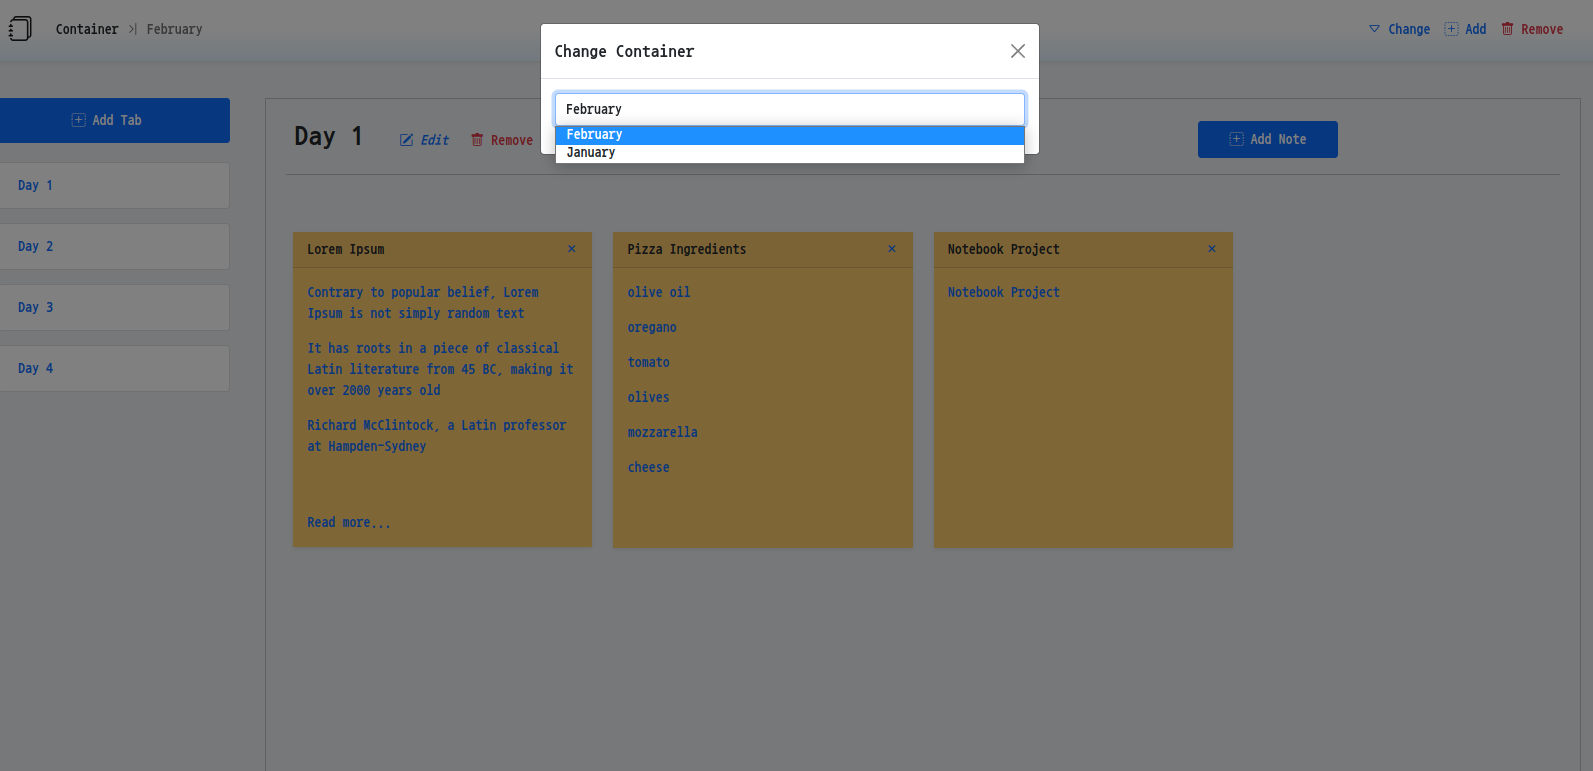
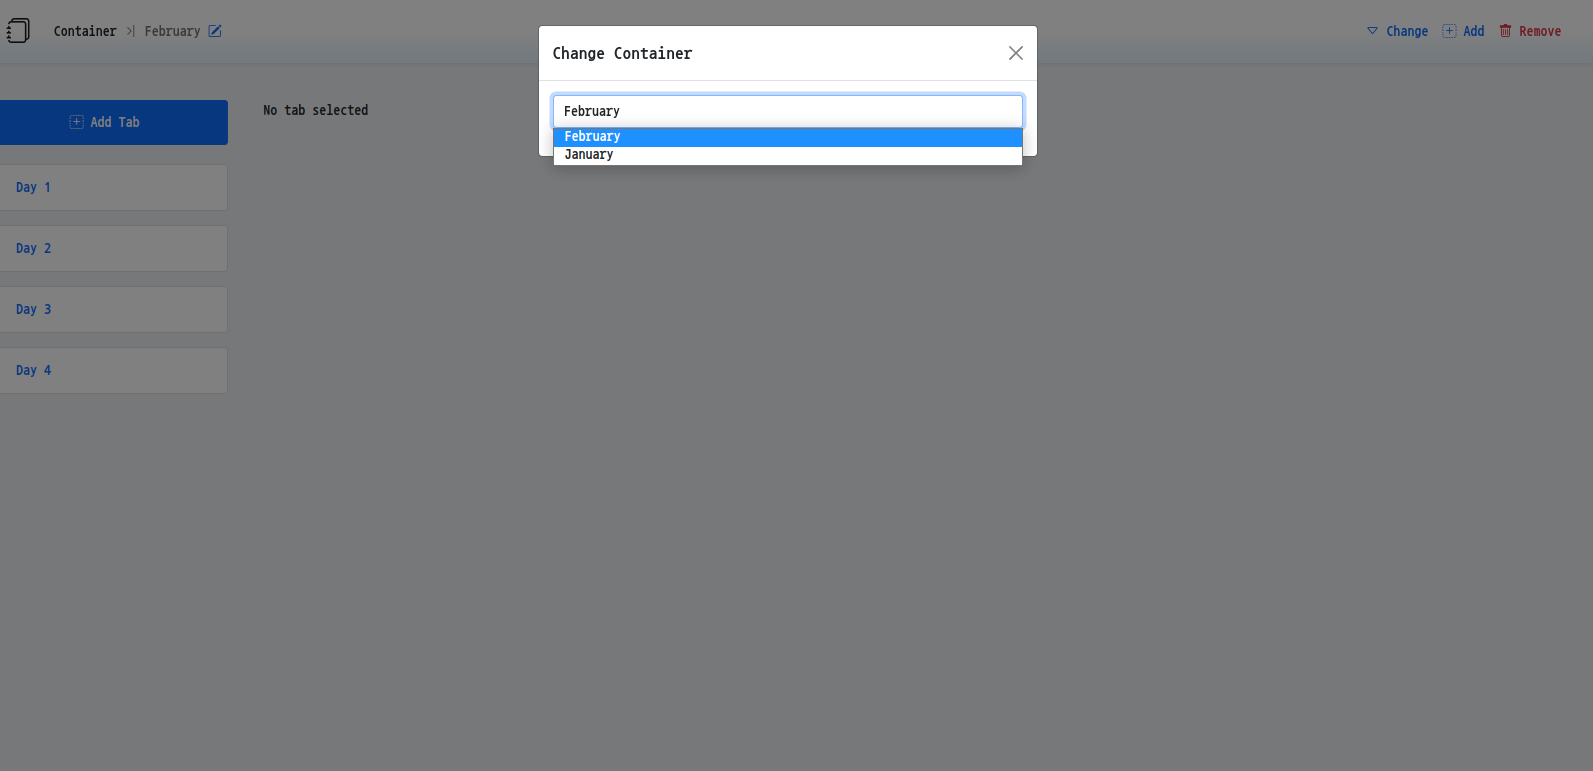
Improve user experience

diff --git a/frontend/src/App.vue b/frontend/src/App.vue
@@ -6,7 +6,7 @@
     <ContainerEditForm />
     <div class="row" style="margin-top: 100px !important;">
       <div class="col-2 app-tabs">
-        <Tabs v-show="containerExists" />
+        <Tabs />
       </div>
       <div class="col-10">
         <router-view />
@@ -51,7 +51,7 @@ export default {
         const currentTab = JSON.parse(localStorage.getItem('tab')) || null;
         const currentContainer = JSON.parse(localStorage.getItem('container'))
 
-        if(currentContainer.id === '') {
+        if(currentContainer && currentContainer.id == '') {
           document.querySelector('#tabs').style.display = 'none';
           document.querySelector('#container-edit-btn').style.display = 'none'
           document.querySelector('#container-remove-btn').style.display = 'none'
@@ -71,16 +71,6 @@ export default {
         //   // vm.$store.dispatch('loadTabs');
         // }, 1000)
     }, false);
-  },
-  methods: {
-    containerExists() {
-      const currentContainer = JSON.parse(localStorage.getItem('container'));
-      if(currentContainer.id === '') {
-        return false;
-      } else {
-        return true;
-      }
-    }
   }
 };
 </script>

diff --git a/frontend/src/store/modules/tab.js b/frontend/src/store/modules/tab.js
@@ -23,14 +23,16 @@ const actions = {
 	loadTabs: ({commit}) => {
 		return new Promise((resolve, reject) => {
 			const container = JSON.parse(localStorage.getItem("container"));
-			axios.get('http://localhost:8888/api/tabs/' + container.id + '/tabs')
-			.then((res) => {
-				commit('SET_TABS', res.data);
-				resolve(res);
-			})
-			.catch((err) => {
-				reject(err);
-			})
+			if(container && container.id !== '') {
+				axios.get('http://localhost:8888/api/tabs/' + container.id + '/tabs')
+					.then((res) => {
+						commit('SET_TABS', res.data);
+						resolve(res);
+					})
+					.catch((err) => {
+						reject(err);
+					})
+			}
 		});
 	},
 	createTab: ({commit}, data) => {

diff --git a/frontend/src/components/Home.vue b/frontend/src/components/Home.vue
@@ -1,16 +1,19 @@
 <template>
   <div id="home">
-  	Navigate notes accross tabs
-
+  	No tab selected
   </div>
 </template>
 
 <script>
-
 	export default {
 	 	name: 'Home',
 	 	mounted() {
-	 		this.$store.dispatch('loadTabs');
+			const currentContainer = JSON.parse(
+				localStorage.getItem('container')
+			)
+			if(currentContainer && currentContainer.id !== '') {
+				this.$store.dispatch('loadTabs');
+			}
 		}
   };
 </script>
